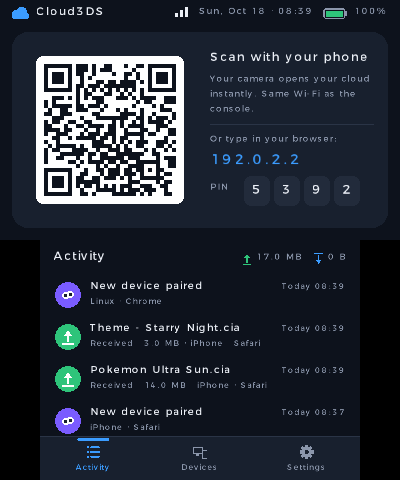
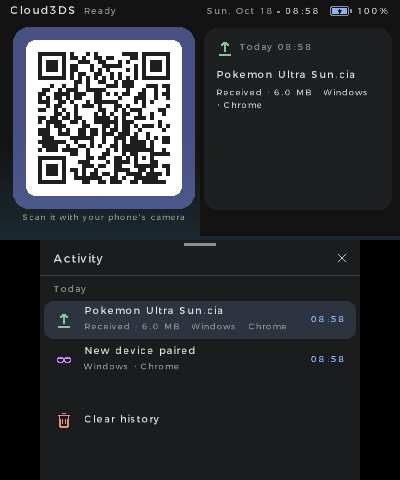
README: capturas y controles de la nueva interfaz
Capturas de la consola con la interfaz al estilo de Gemi3DS (inicio, subida en curso, actividad y ajustes) y la tabla de controles actualizada.

diff --git a/README.md b/README.md
@@ -29,7 +29,7 @@ FTPD funciona, pero hay que instalar un cliente FTP, escribir la IP y el puerto 
 - **Seguro por defecto:** PIN nuevo en cada arranque, bloqueo tras varios intentos fallidos, modo **solo lectura** y confirmación antes de tocar carpetas del sistema (`Nintendo 3DS`, `luma/payloads`, `boot.firm`…).
 - **Sin sorpresas:** las subidas se escriben en un temporal y solo se renombran al terminar. Si se corta la conexión, no quedan archivos a medias. Avisa si no hay espacio o si el archivo pasa de 4 GB (límite de FAT32).
 - **Puedes cerrar la tapa:** mientras transfiere, la consola no se suspende y apaga la pantalla.
-- **En la consola:** QR, dirección y PIN, transferencias en directo, historial de actividad, dispositivos conectados, batería, Wi-Fi y hora. Tema oscuro o claro, en español, inglés y japonés.
+- **En la consola:** el QR, la dirección y el PIN siempre a la vista, con las transferencias en directo al lado. Resumen del día, actividad, dispositivos conectados, permisos y ajustes en menús con el mismo estilo que [Gemi3DS](https://github.com/venomshine/Gemi3DS). Tema oscuro o claro, en español, inglés y japonés.
 
 <p align="center"><img src="docs/c_activity.png" width="400" alt="Actividad"> <img src="docs/c_settings.png" width="400" alt="Ajustes"></p>
 <p align="center"><img src="docs/r_web_pc.png" width="820" alt="Cloud3DS en el navegador del PC"></p>
@@ -54,10 +54,12 @@ El móvil o el PC tienen que estar en la **misma red** que la consola. En alguna
 
 | Botón | Acción |
 |---|---|
-| L / R | Cambiar de pestaña (Actividad, Dispositivos, Ajustes) |
-| Cruceta / Circle Pad | Moverse por la lista |
-| A | Elegir |
-| B | Cancelar o cerrar |
+| X | Menú (actividad, dispositivos, ajustes, acerca de) |
+| A | Actividad |
+| Y | Dispositivos |
+| R | Permisos (lectura y escritura o solo lectura) |
+| Cruceta | Moverse por las listas |
+| B | Cerrar (la pantalla de arriba vuelve al QR) |
 | START | Salir |
 
 Todo se puede hacer también con la pantalla táctil.
